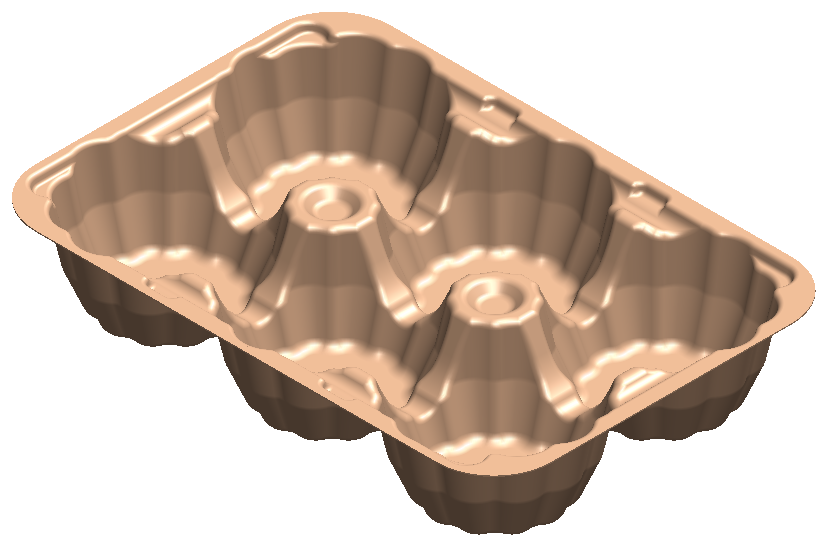
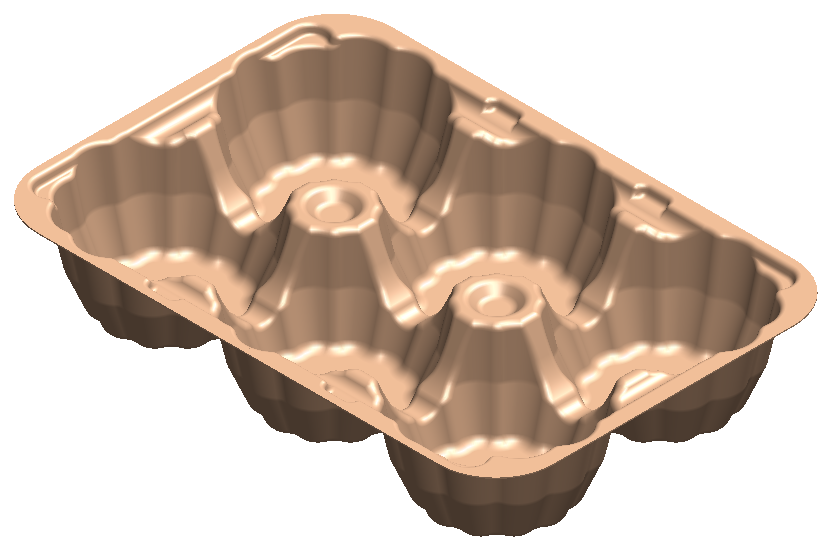
Use confectionery PDF images on tray page

diff --git a/resources/views/cirkla/pages/map-vsp.blade.php b/resources/views/cirkla/pages/map-vsp.blade.php
@@ -6,49 +6,95 @@
     $hero = [
         'eyebrow' => 'Confectionery Trays',
         'title' => 'Confectionery tray formats <em>for delicate applications.</em>',
-        'copy' => 'QRCOPAR develops confectionery tray options for products that need custom fit, divided layouts, moisture-aware handling, or buyer-specific presentation.',
-        'image' => '/images/pdf-extracted/embedded/mso-tray-product-type-3-copar/mso-tray-product-type-3-copar-p01-img01-848x619.png',
-        'imageAlt' => 'Full QRCOPAR confectionery tray',
-        'pills' => ['Drylock trays', 'MSO trays', 'Custom tray formats'],
+        'copy' => 'QRCOPAR develops confectionery tray options for bakery, sweet, and specialty presentation formats that need a precise fit, smooth handling, and shelf-ready product protection.',
+        'image' => '/images/pdf-extracted/embedded/confectionery/mince-pie-six-cavity-tray.png',
+        'imageAlt' => 'QRCOPAR six-cavity mince pie confectionery tray',
+        'pills' => ['Mince pie trays', 'FT 3 trays', 'Custom cavity formats'],
     ];
     $featureTitle = 'Application-led design';
     $featureHeading = 'Built around handling, fit, <em>and shelf appeal.</em>';
-    $featureCopy = 'Confectionery tray projects can be specified for products where strength, moisture handling, and pack compatibility must work together.';
+    $featureCopy = 'Confectionery tray projects can be specified for products where cavity shape, presentation, strength, and pack compatibility must work together.';
     $benefits = [
-        'Supports moisture-aware tray applications.',
-        'Designed for chilled retail display and distribution.',
-        'Material and structure options can be combined by tray requirement.',
-        'Customised for product fit, lidding, and processor needs.',
+        'Cavity-led tray structures for pies, sweets, bakery, and specialty packs.',
+        'Designed around product fit, denesting, handling, and presentation.',
+        'Molded fibre structures support rigid protection with a premium natural finish.',
+        'Can be customised for lidding, retail display, and processor requirements.',
     ];
     $applications = [
-        ['label' => 'Drylock', 'title' => 'Moisture-aware trays', 'copy' => 'Formats for products where absorption, moisture handling, and stability matter.'],
-        ['label' => 'MSO', 'title' => 'Confectionery tray structures', 'copy' => 'Tray options for products that need specific shape, depth, and pack handling.'],
-        ['label' => 'Custom', 'title' => 'Confectionery project planning', 'copy' => 'Custom projects can assess fit, strength, and surface needs before production tooling.'],
+        ['label' => 'Mince pie', 'title' => 'Six-cavity bakery trays', 'copy' => 'Individual formed cavities help separate, protect, and present delicate baked products.'],
+        ['label' => 'FT 3', 'title' => 'Three-zone confectionery formats', 'copy' => 'Multi-cavity layouts can be shaped around sweets, snacks, and gifting formats.'],
+        ['label' => 'Custom', 'title' => 'Specialty molded structures', 'copy' => 'Custom molded designs can be developed for carrying, nesting, lidding, and retail display needs.'],
     ];
     $productDetails = [
         [
-            'label' => 'Confectionery tray',
-            'title' => 'Custom tray pathways for non-standard packs',
-            'copy' => 'Confectionery trays support projects where the product, pack line, or retail display requires a tray outside a standard format.',
-            'image' => '/images/pdf-extracted/embedded/sg-2c-7030/sg-2c-7030-p01-img01-824x584.png',
-            'imageAlt' => 'Full QRCOPAR confectionery tray',
+            'label' => 'Mince pie tray',
+            'title' => 'Six-cavity tray for delicate bakery packs',
+            'copy' => 'The mince pie tray format uses six formed cavities to hold individual products securely while maintaining a clean molded fibre presentation.',
+            'image' => '/images/pdf-extracted/embedded/confectionery/mince-pie-six-cavity-tray.png',
+            'imageAlt' => 'Six-cavity molded fibre mince pie tray',
             'features' => [
-                'Supports divided, deep, shallow, and moisture-aware tray needs.',
-                'Designed around fit, lidding and presentation requirements.',
-                'Can be evaluated for buyer and production trials.',
+                'Six individual cavities for separation and presentation.',
+                'Rounded cavity geometry for delicate bakery and sweet products.',
+                'Designed for custom tooling, retail display, and buyer trials.',
             ],
         ],
         [
-            'label' => 'Drylock tray',
-            'title' => 'Moisture-aware tray structure',
-            'copy' => 'The Drylock tray product file informs packaging for products where absorption, moisture management and pack stability are part of the decision.',
-            'image' => '/images/pdf-extracted/embedded/drylock-tray-product-copar/drylock-tray-product-copar-p01-img01-868x629.png',
-            'imageAlt' => 'Full fibre tray for moisture-aware packs',
+            'label' => 'FT 3 product',
+            'title' => 'Three-compartment molded fibre format',
+            'copy' => 'The FT 3 product layout shows how shaped compartments can be used for specialty confectionery, snack, and presentation packs.',
+            'image' => '/images/pdf-extracted/embedded/confectionery/ft3-compartment-tray.png',
+            'imageAlt' => 'Three-compartment molded fibre confectionery tray',
             'features' => [
-                'Useful for fresh chilled food trials.',
-                'Supports product protection through handling.',
-                'Can be customised by fit, volume and buyer requirements.',
+                'Three formed zones for product separation.',
+                'Smooth cavity surfaces for premium presentation.',
+                'Adaptable to product dimensions and pack-line handling.',
             ],
+        ],
+        [
+            'label' => 'Specialty carrier',
+            'title' => 'Custom carrying tray structures',
+            'copy' => 'Specialty carrying tray designs show how molded fibre can be engineered around stability, nested geometry, and handling requirements.',
+            'image' => '/images/pdf-extracted/embedded/confectionery/flower-pot-carrying-tray.png',
+            'imageAlt' => 'Specialty molded fibre carrying tray',
+            'features' => [
+                'Deep molded pockets for stable product placement.',
+                'Reinforced geometry for handling and transport.',
+                'Useful reference for custom molded tray programs.',
+            ],
+        ],
+        [
+            'label' => 'Lidded assembly',
+            'title' => 'Lidded molded fibre packaging assembly',
+            'copy' => 'The lidded assembly format demonstrates closed-pack possibilities for products that need a complete molded fibre presentation system.',
+            'image' => '/images/pdf-extracted/embedded/confectionery/textile-packaging-assembly-tray.png',
+            'imageAlt' => 'Lidded molded fibre packaging assembly',
+            'features' => [
+                'Integrated lid-style structure for closed presentation.',
+                'Stackable geometry for storage and logistics.',
+                'Can be adapted for retail, gifting, and specialty pack needs.',
+            ],
+        ],
+    ];
+    $gallery = [
+        [
+            'title' => 'Six-Cavity Mince Pie Tray',
+            'copy' => 'Confectionery PDF render with six formed product cavities.',
+            'image' => '/images/pdf-extracted/embedded/confectionery/mince-pie-six-cavity-tray.png',
+        ],
+        [
+            'title' => 'FT 3 Product Tray',
+            'copy' => 'Three-zone molded fibre tray format for specialty packs.',
+            'image' => '/images/pdf-extracted/embedded/confectionery/ft3-compartment-tray.png',
+        ],
+        [
+            'title' => 'Specialty Carrying Tray',
+            'copy' => 'Molded carrier geometry extracted from the supplied folder PDFs.',
+            'image' => '/images/pdf-extracted/embedded/confectionery/flower-pot-carrying-tray.png',
+        ],
+        [
+            'title' => 'Lidded Packaging Assembly',
+            'copy' => 'Closed molded fibre packaging assembly for specialty presentations.',
+            'image' => '/images/pdf-extracted/embedded/confectionery/textile-packaging-assembly-tray.png',
         ],
     ];
 @endphp